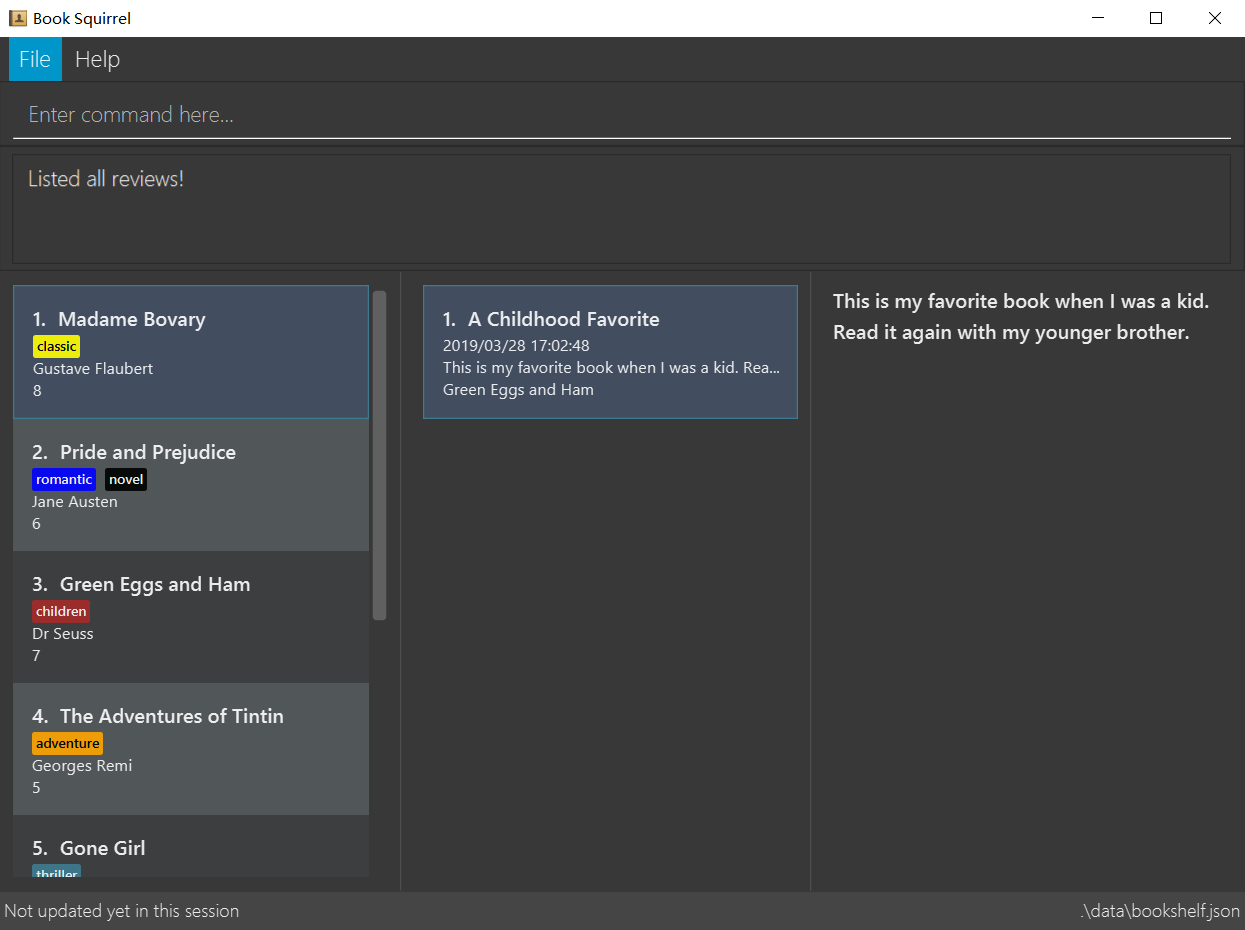
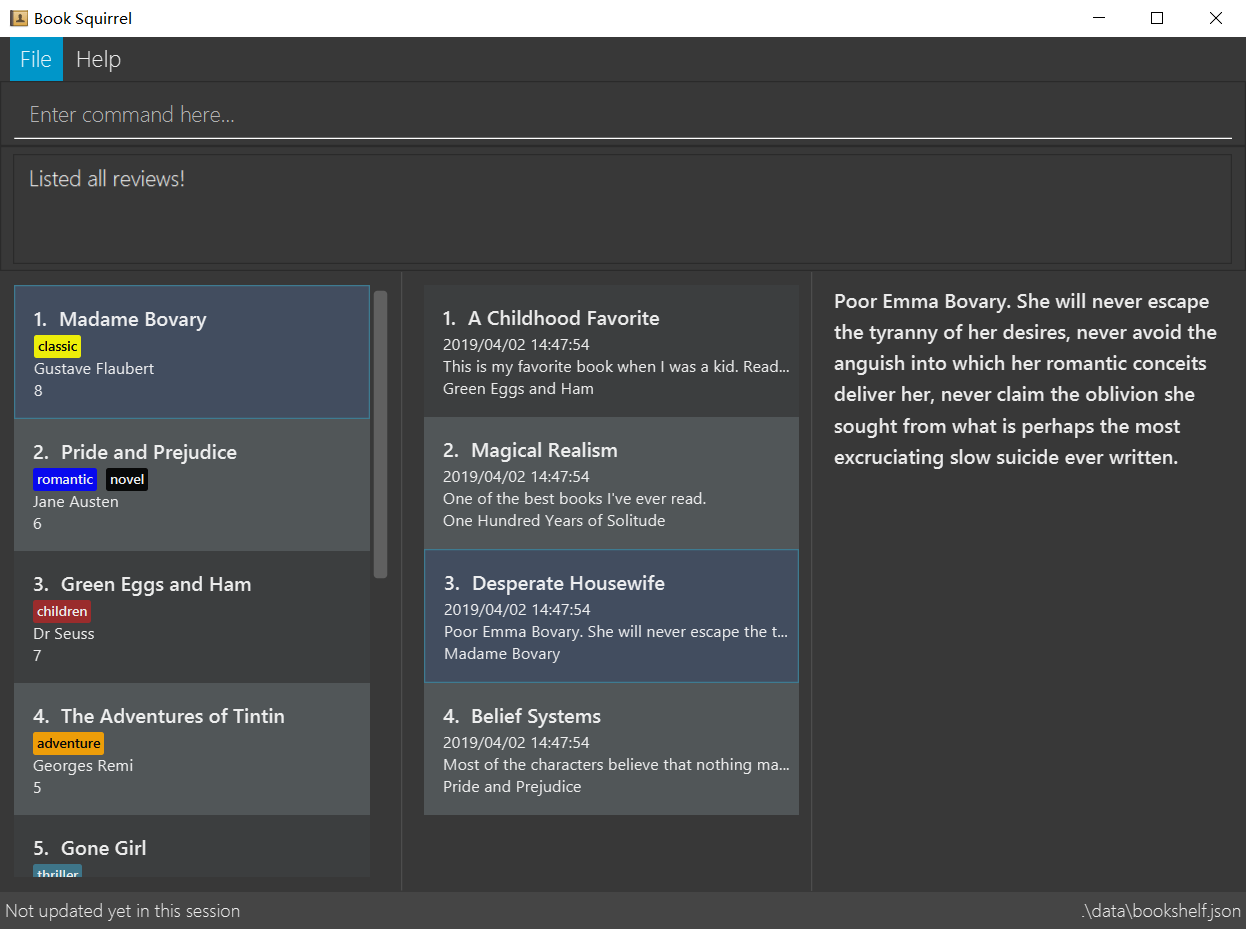
EditBook compatibility; Update docs

diff --git a/src/main/java/seedu/address/logic/commands/EditBookCommand.java b/src/main/java/seedu/address/logic/commands/EditBookCommand.java
@@ -23,6 +23,8 @@ import seedu.address.model.book.Author;
 import seedu.address.model.book.Book;
 import seedu.address.model.book.BookName;
 import seedu.address.model.book.Rating;
+import seedu.address.model.book.Review;
+import seedu.address.model.book.ReviewBookNameContainsExactKeywordsPredicate;
 import seedu.address.model.tag.Tag;
 
 /**
@@ -77,6 +79,23 @@ public class EditBookCommand extends Command {
 
         if (!bookToEdit.isSameBook(editBookedBook) && model.hasBook(editBookedBook)) {
             throw new CommandException(MESSAGE_DUPLICATE_BOOK);
+        }
+
+        if (!bookToEdit.getBookName().equals(editBookedBook.getBookName())) {
+            ReviewBookNameContainsExactKeywordsPredicate predicate =
+                    new ReviewBookNameContainsExactKeywordsPredicate(bookToEdit.getBookName());
+            model.updateFilteredReviewList(predicate);
+            List<Review> reviewsToEdit = model.getFilteredReviewList();
+            Review reviewToEdit;
+            Review editedReview;
+            while (!reviewsToEdit.isEmpty()) {
+                reviewToEdit = reviewsToEdit.get(0);
+                editedReview = new Review(reviewToEdit.getTitle(), editBookedBook.getBookName(),
+                        reviewToEdit.getDateCreated(), reviewToEdit.getReviewMessage());
+                model.setReview(reviewToEdit, editedReview);
+                model.updateFilteredReviewList(predicate);
+                reviewsToEdit = model.getFilteredReviewList();
+            }
         }
 
         model.setBook(bookToEdit, editBookedBook);

diff --git a/src/main/java/seedu/address/model/util/SampleDataUtil.java b/src/main/java/seedu/address/model/util/SampleDataUtil.java
@@ -42,9 +42,17 @@ public class SampleDataUtil {
     public static Review[] getSampleReviews() {
         return new Review[] {
             new Review(new ReviewTitle("A Childhood Favorite"), new BookName("Green Eggs and Ham"),
-                "This is my favorite book when I was a kid. Read it again with my younger brother. "),
+                    "This is my favorite book when I was a kid. Read it again with my younger brother. "),
             new Review(new ReviewTitle("Magical Realism"), new BookName("One Hundred Years of Solitude"),
-                    "One of the best books I've ever read. ")
+                    "One of the best books I've ever read. "),
+            new Review(new ReviewTitle("Desperate Housewife"), new BookName("Madame Bovary"),
+                    "Poor Emma Bovary. She will never escape the tyranny of her desires, never avoid the "
+                            + "anguish into which her romantic conceits deliver her, never claim the oblivion she "
+                            + "sought from what is perhaps the most excruciating slow suicide ever written."),
+            new Review(new ReviewTitle("Belief Systems"), new BookName("Pride and Prejudice"),
+                    "Most of the characters believe that nothing matters more than social class. Characters "
+                            + "threaten, criticize, ostracize, flatter, marry, venerate and despise other characters, "
+                            + "all for the sake of maintaining or elevating their status in society."),
         };
     }
 

diff --git a/src/main/java/seedu/address/model/BookShelf.java b/src/main/java/seedu/address/model/BookShelf.java
@@ -122,6 +122,17 @@ public class BookShelf implements ReadOnlyBookShelf {
     }
 
     /**
+     * Replaces the given review {@code target} in the list with {@code editedReview}.
+     * {@code target} must exist in the book shelf.
+     * The review identity of {@code editedReview} must not be the same as another existing review in the book shelf.
+     */
+    public void setReview(Review target, Review editedReview) {
+        requireNonNull(editedReview);
+        reviews.setReview(target, editedReview);
+        indicateModified();
+    }
+
+    /**
      * Removes {@code key} from this {@code BookShelf}.
      * {@code key} must exist in the book shelf.
      */

diff --git a/src/main/java/seedu/address/model/Model.java b/src/main/java/seedu/address/model/Model.java
@@ -99,6 +99,13 @@ public interface Model {
      */
     void setBook(Book target, Book editedBook);
 
+    /**
+     * Replaces the given review {@code target} in the list with {@code editedReview}.
+     * {@code target} must exist in the book shelf.
+     * The review identity of {@code editedReview} must not be the same as another existing review in the book shelf.
+     */
+    void setReview(Review target, Review editedReview);
+
     /** Returns an unmodifiable view of the filtered book list */
     ObservableList<Book> getFilteredBookList();
 

diff --git a/src/main/java/seedu/address/logic/commands/AddReviewCommand.java b/src/main/java/seedu/address/logic/commands/AddReviewCommand.java
@@ -22,7 +22,7 @@ public class AddReviewCommand extends Command {
 
     public static final String COMMAND_WORD = "addReview";
     public static final String PLACE_HOLDER_FOR_TEST_BOOK = "1";
-    public static final int MAX_REVIEWMESSAGE_LENGTH = 350;
+    public static final int MAX_REVIEWMESSAGE_LENGTH = 400;
 
     public static final String MESSAGE_USAGE = COMMAND_WORD + ": Adds a review to a certain book. \n"
             + "Parameters: "

diff --git a/src/test/java/seedu/address/logic/commands/AddBookCommandTest.java b/src/test/java/seedu/address/logic/commands/AddBookCommandTest.java
@@ -172,6 +172,11 @@ public class AddBookCommandTest {
         }
 
         @Override
+        public void setReview(Review target, Review editedReview) {
+            throw new AssertionError("This method should not be called.");
+        }
+
+        @Override
         public ObservableList<Book> getFilteredBookList() {
             throw new AssertionError("This method should not be called.");
         }

diff --git a/src/main/java/seedu/address/model/ModelManager.java b/src/main/java/seedu/address/model/ModelManager.java
@@ -146,6 +146,12 @@ public class ModelManager implements Model {
     }
 
     @Override
+    public void setReview(Review target, Review editedReview) {
+        requireAllNonNull(target, editedReview);
+        versionedBookShelf.setReview(target, editedReview);
+    }
+
+    @Override
     public void deleteTag(Tag tag) {
         versionedBookShelf.removeTag(tag);
     }
